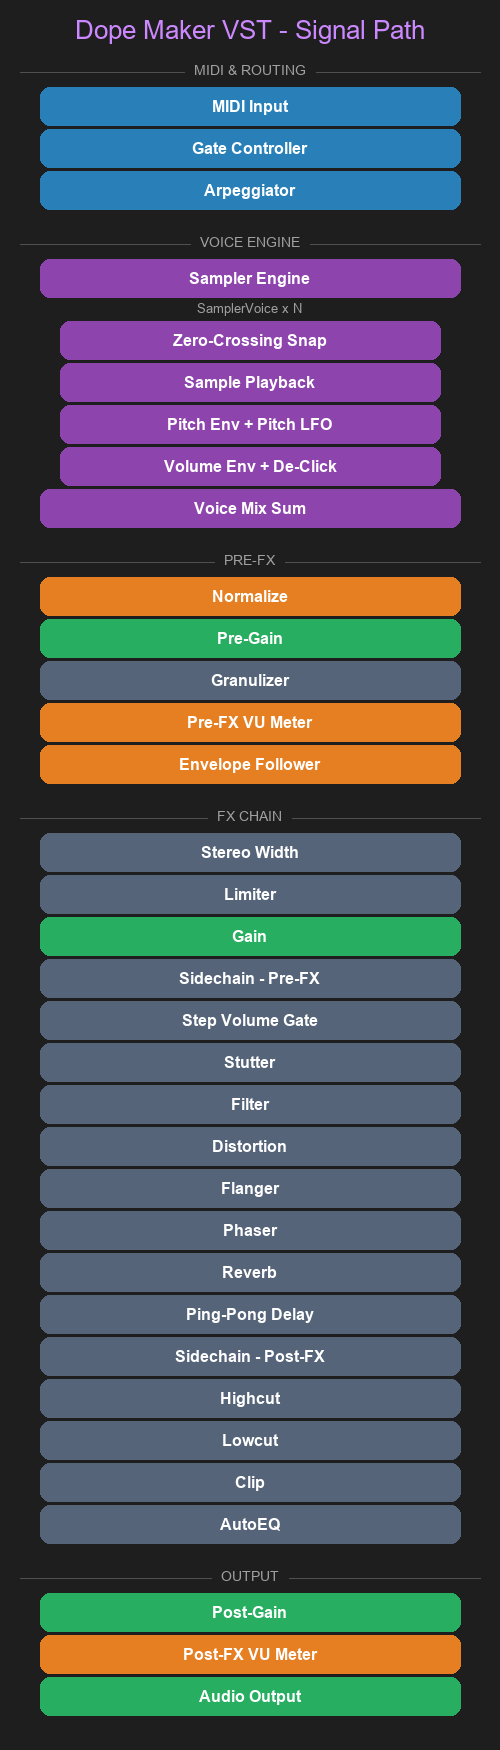
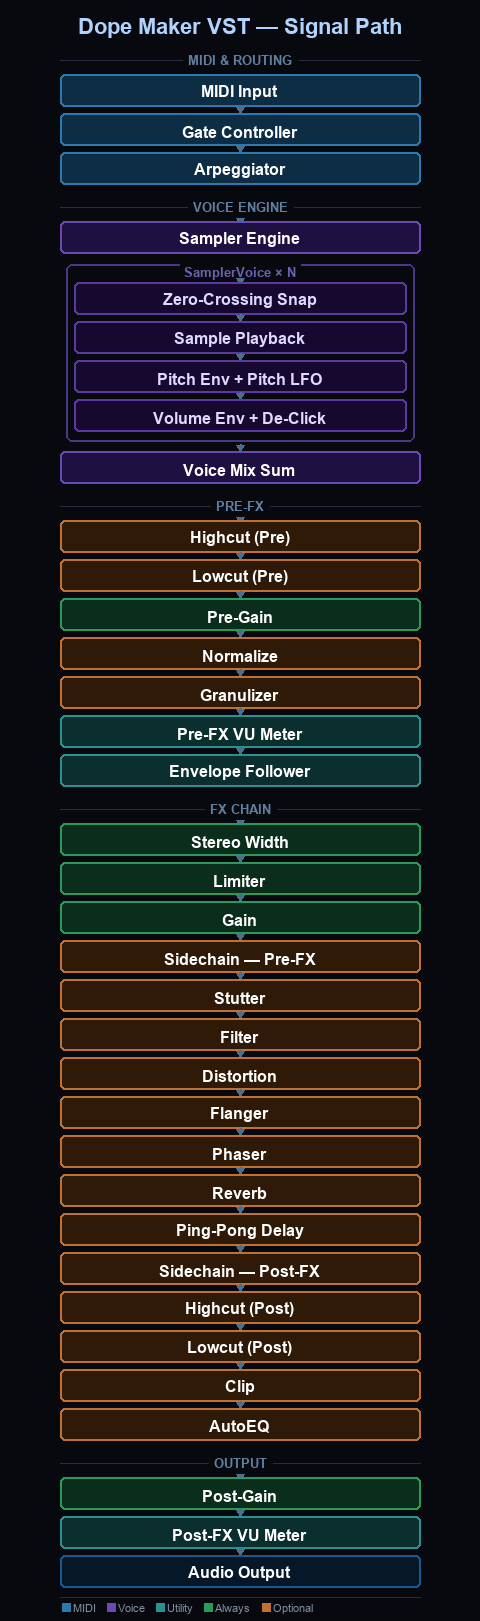
Update signal path diagram with pre/post filter positions

diff --git a/gen_chart_simple.py b/gen_chart_simple.py
@@ -121,6 +121,8 @@ box(y, 'Voice Mix Sum', 'engine');       y += BH + GAP + 6
 y = hdr(y, 'PRE-FX')
 arr(y - 2, y + 3)
 
+box(y, 'Highcut (Pre)', 'optional');      y += BH + GAP; arr(y - GAP, y)
+box(y, 'Lowcut (Pre)', 'optional');      y += BH + GAP; arr(y - GAP, y)
 box(y, 'Pre-Gain', 'always');            y += BH + GAP; arr(y - GAP, y)
 box(y, 'Normalize', 'optional');         y += BH + GAP; arr(y - GAP, y)
 box(y, 'Granulizer', 'optional');        y += BH + GAP; arr(y - GAP, y)
@@ -143,8 +145,8 @@ box(y, 'Phaser', 'optional');            y += BH + GAP; arr(y - GAP, y)
 box(y, 'Reverb', 'optional');            y += BH + GAP; arr(y - GAP, y)
 box(y, 'Ping-Pong Delay', 'optional');   y += BH + GAP; arr(y - GAP, y)
 box(y, 'Sidechain \u2014 Post-FX', 'optional'); y += BH + GAP; arr(y - GAP, y)
-box(y, 'Highcut', 'optional');           y += BH + GAP; arr(y - GAP, y)
-box(y, 'Lowcut', 'optional');            y += BH + GAP; arr(y - GAP, y)
+box(y, 'Highcut (Post)', 'optional');    y += BH + GAP; arr(y - GAP, y)
+box(y, 'Lowcut (Post)', 'optional');     y += BH + GAP; arr(y - GAP, y)
 box(y, 'Clip', 'optional');              y += BH + GAP; arr(y - GAP, y)
 box(y, 'AutoEQ', 'optional');            y += BH + GAP + 6
 
